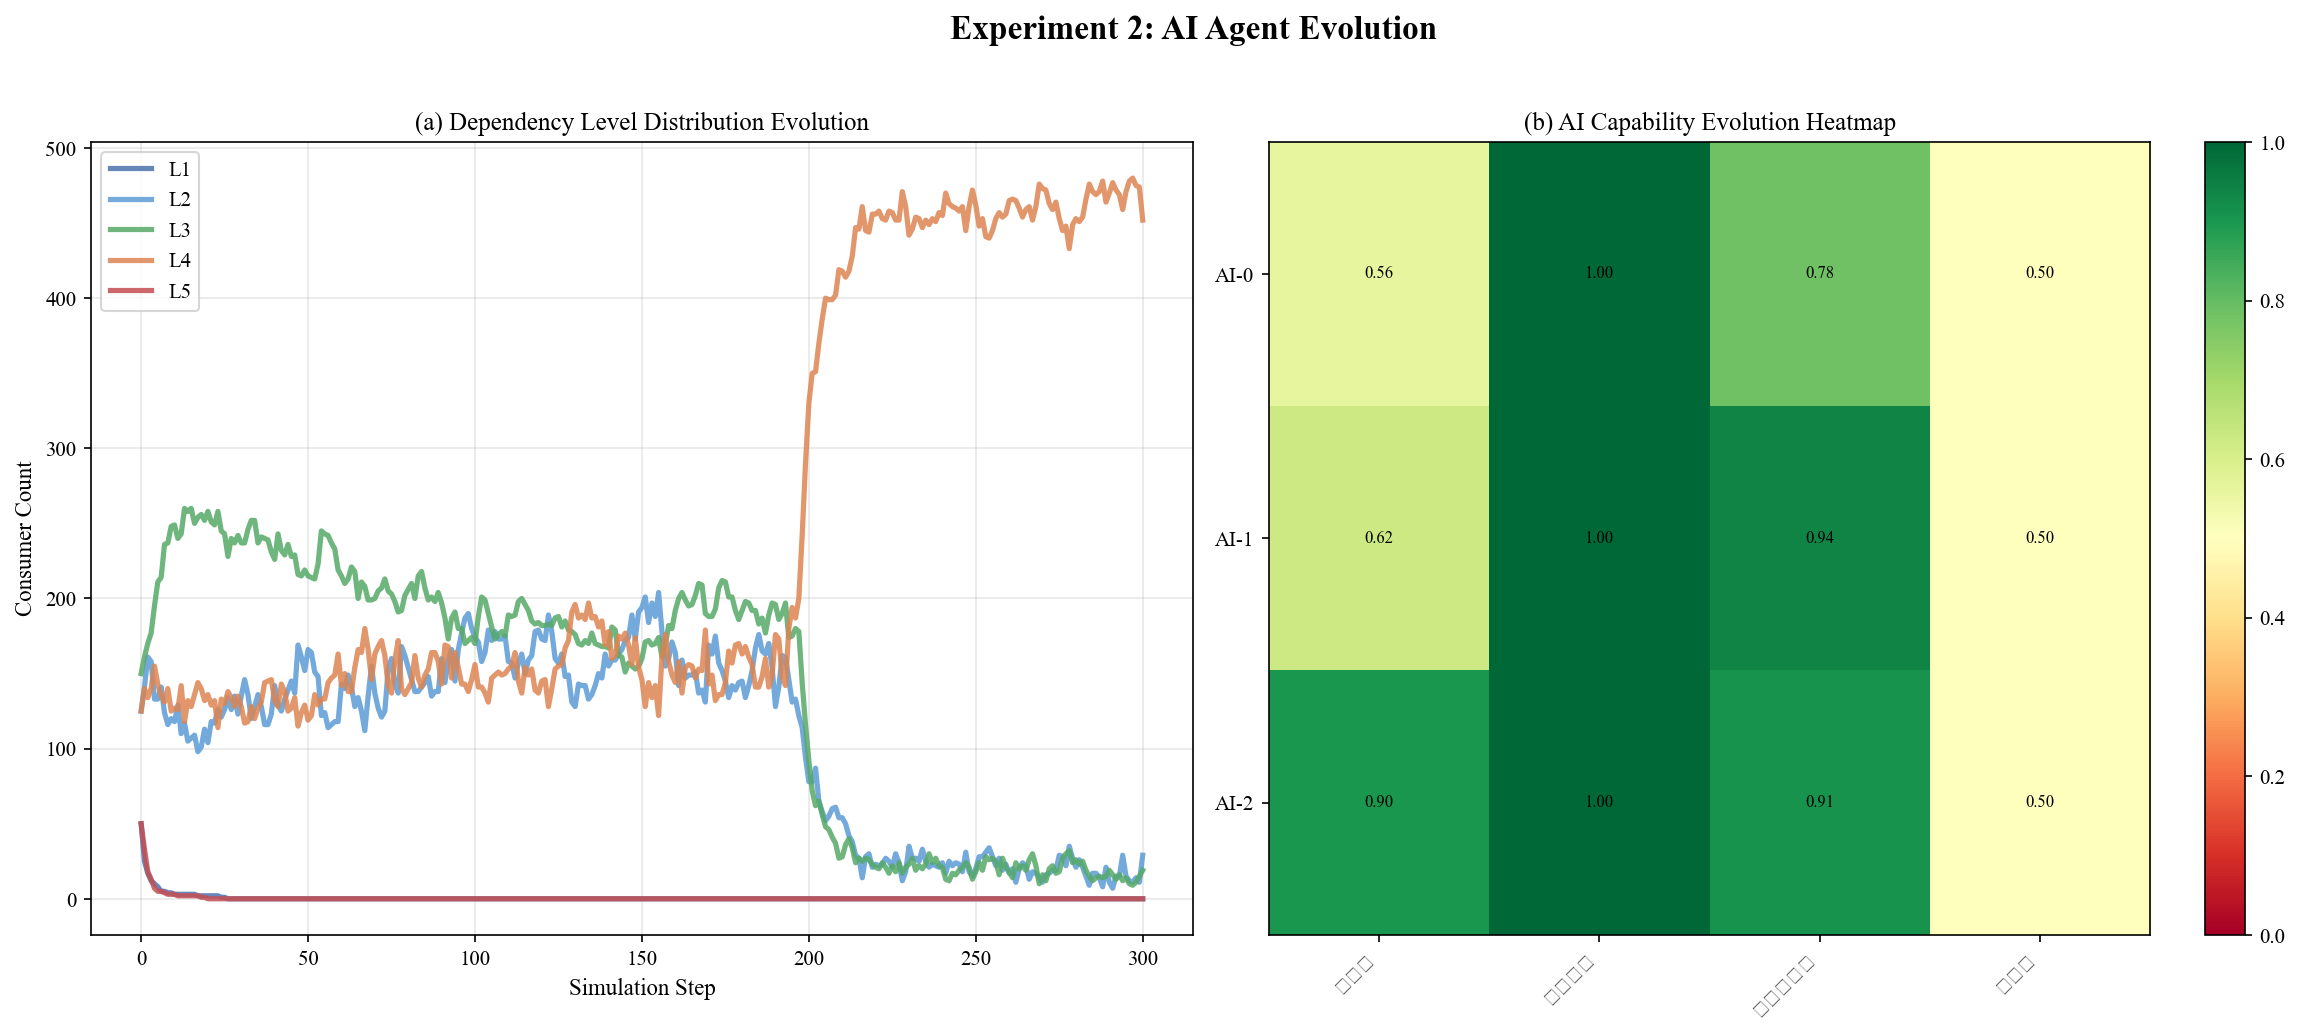
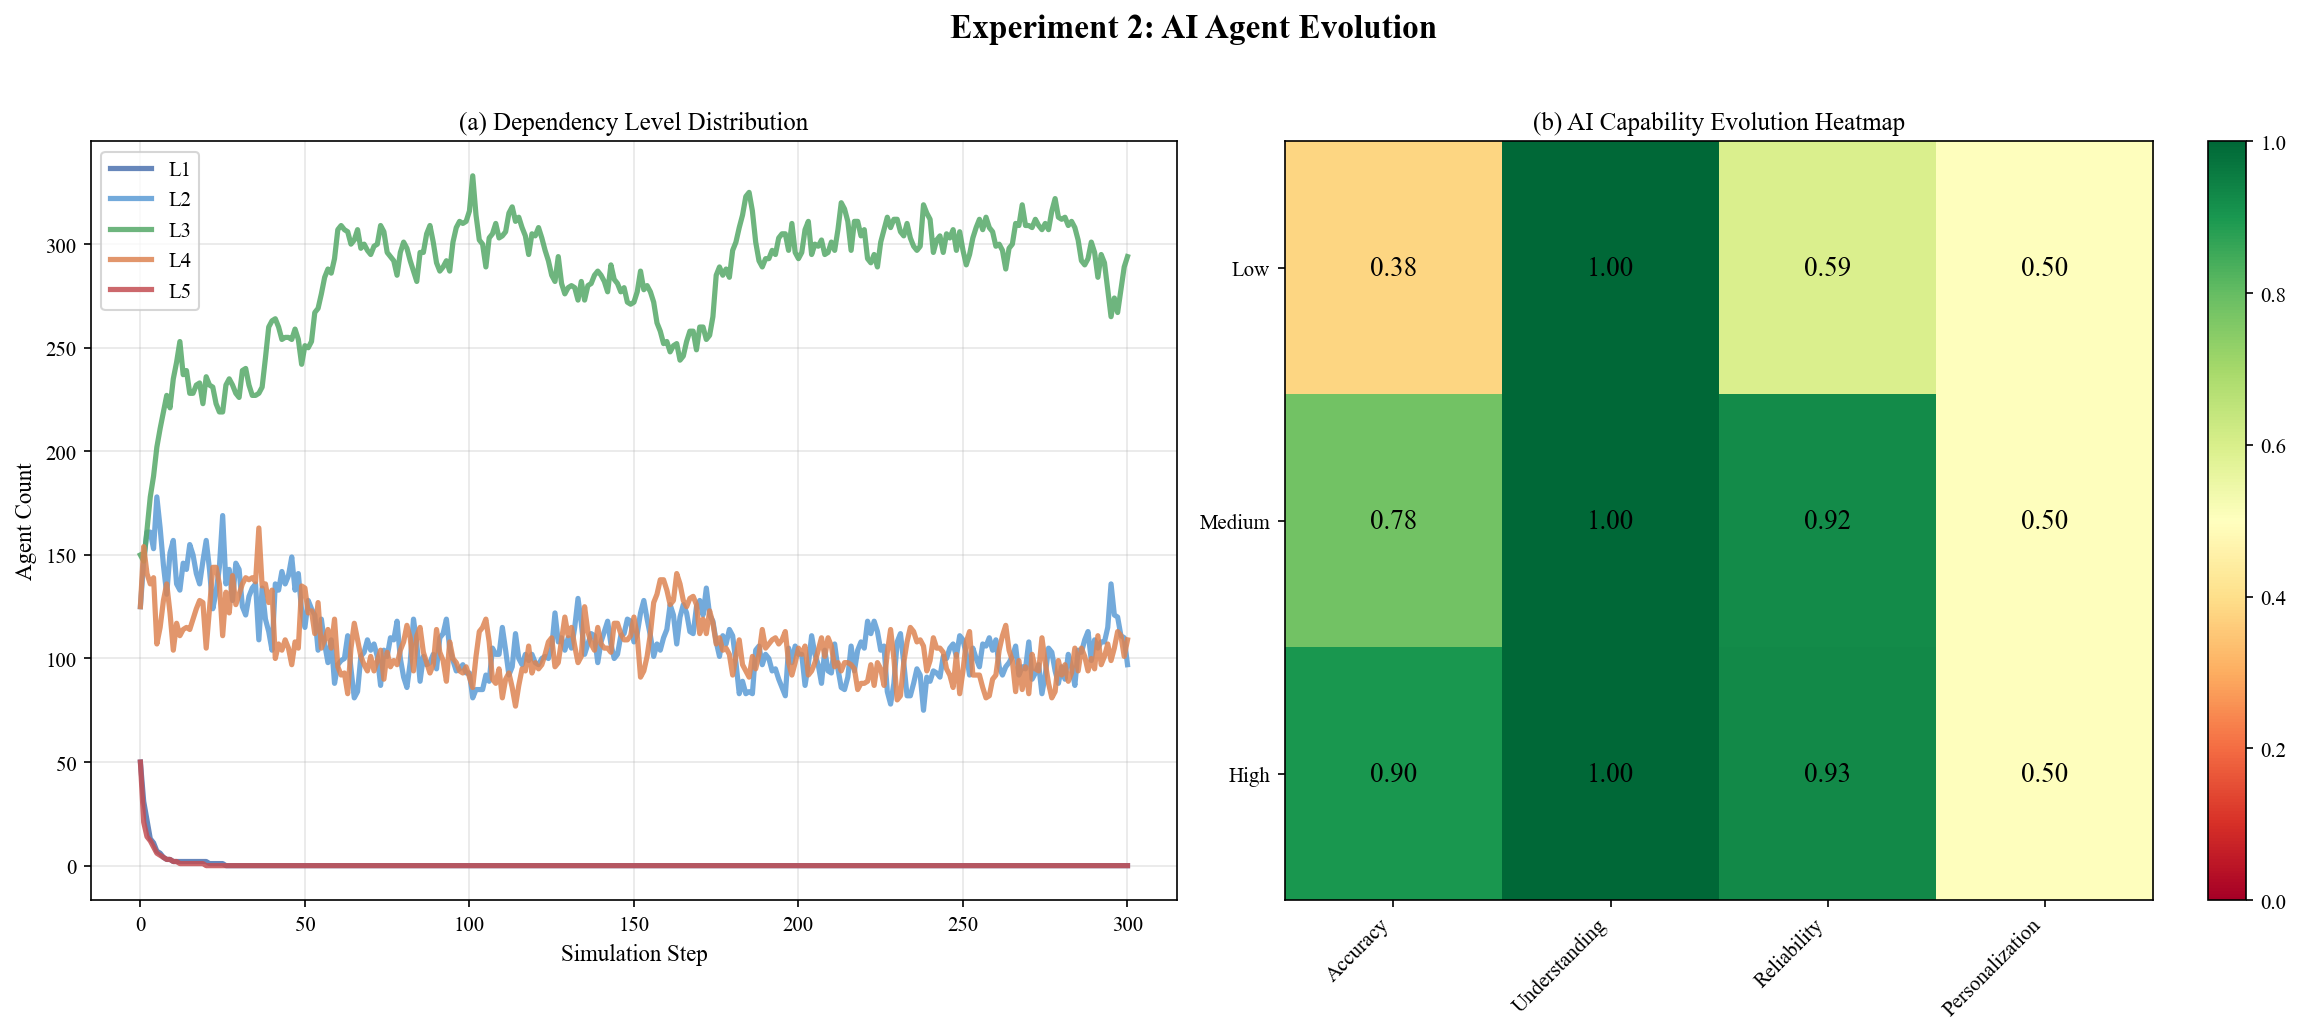
fix: 优化实验1/2可视化图表（y轴刻度分离、图例位置、热力图标签）

diff --git a/abm_simulation/experiments/exp1_baseline/create_baseline_summary.py b/abm_simulation/experiments/exp1_baseline/create_baseline_summary.py
@@ -4,6 +4,7 @@
 
 import numpy as np
 import matplotlib.pyplot as plt
+import matplotlib.patheffects as pe
 import sys
 import os
 
@@ -26,10 +27,10 @@ TEXT_CONFIG = {
         'level_evolution': '(c) 依赖等级演化',
         'magnetization': '(d) Ising 磁化强度',
         'coupling': '(e) 社会影响强度演化',
-        'phase_transition': 'Ising 相变分析',
-        'satisfaction': '(f) 平均满意度演化',
-        'ai_usage': 'AI 使用与错误率',
-        'network': '(g) 小世界网络特征',
+        'phase_transition': '(f) Ising 相变分析',
+        'satisfaction': '(g) 平均满意度演化',
+        'ai_usage': '(h) AI 使用与错误率',
+        'network': '(i) 小世界网络特征',
         'agent_count': '智能体数量',
         'step': '仿真步数',
         'coupling_strength': '耦合强度',
@@ -51,10 +52,10 @@ TEXT_CONFIG = {
         'level_evolution': '(c) Dependency Level Evolution',
         'magnetization': '(d) Ising Magnetization',
         'coupling': '(e) Social Influence Strength Evolution',
-        'phase_transition': 'Ising Phase Transition Analysis',
-        'satisfaction': '(f) Average Satisfaction Evolution',
-        'ai_usage': 'AI Usage & Error Rate',
-        'network': '(g) Small-World Network Features',
+        'phase_transition': '(f) Ising Phase Transition Analysis',
+        'satisfaction': '(g) Average Satisfaction Evolution',
+        'ai_usage': '(h) AI Usage & Error Rate',
+        'network': '(i) Small-World Network Features',
         'agent_count': 'Agent Count',
         'step': 'Simulation Step',
         'coupling_strength': 'Coupling Strength',
@@ -172,8 +173,9 @@ def _plot_initial_level_distribution(ax, sim, level_names, text):
         ax.grid(True, axis='y', alpha=0.3)
         
         for bar, count in zip(bars, counts):
-            ax.text(bar.get_x() + bar.get_width()/2., bar.get_height() + 5,
-                   f'{count}', ha='center', va='bottom', fontsize=10, fontweight='bold')
+            ax.text(bar.get_x() + bar.get_width()/2., bar.get_height() * 0.5,
+                   f'{count}', ha='center', va='center', fontsize=11, fontweight='bold',
+                   color='white')
 
 
 def _plot_final_level_distribution(ax, results, level_names, text):
@@ -189,8 +191,9 @@ def _plot_final_level_distribution(ax, results, level_names, text):
     ax.grid(True, axis='y', alpha=0.3)
     
     for bar, count in zip(bars, counts):
-        ax.text(bar.get_x() + bar.get_width()/2., bar.get_height() + 5,
-               f'{count}', ha='center', va='bottom', fontsize=10, fontweight='bold')
+        ax.text(bar.get_x() + bar.get_width()/2., bar.get_height() * 0.5,
+               f'{count}', ha='center', va='center', fontsize=11, fontweight='bold',
+               color='white')
 
 
 def _plot_level_evolution(ax, sim, level_names, text):
@@ -271,8 +274,8 @@ def _plot_phase_transition_analysis(ax, sim, text):
         line2 = ax2.plot(steps, magnetization, color='#4C72B0', label=text['magnetization_label'], linewidth=2, alpha=0.8, linestyle='--')
         
         ax1.set_xlabel(text['step'], fontsize=11)
-        ax1.set_ylabel(text['coupling_strength'], fontsize=11, color='green')
-        ax2.set_ylabel(text['magnetization_label'], fontsize=11, color='blue')
+        ax1.set_ylabel(text['coupling_strength'], fontsize=11, color='#55A868')
+        ax2.set_ylabel(text['magnetization_label'], fontsize=11, color='#4C72B0')
         ax1.set_title(text['phase_transition'], fontsize=12, fontweight='bold')
         
         # 合并图例
@@ -317,6 +320,9 @@ def _plot_ai_usage_and_errors(ax, sim, text):
         line1 = ax1.plot(steps, ai_usage, 'r-', label=text['ai_usage_rate'], linewidth=2, alpha=0.7)
         line2 = ax2.plot(steps, error_rate, 'purple', label=text['error_rate'], linewidth=2, alpha=0.7)
         
+        ax1.set_ylim(0, 1)
+        ax2.set_ylim(0, 1)
+        
         ax1.set_xlabel(text['step'], fontsize=11)
         ax1.set_ylabel(text['ai_usage_rate'], fontsize=11, color='red')
         ax2.set_ylabel(text['error_rate'], fontsize=11, color='purple')
@@ -325,7 +331,7 @@ def _plot_ai_usage_and_errors(ax, sim, text):
         # 合并图例
         lines = line1 + line2
         labels = [l.get_label() for l in lines]
-        ax1.legend(lines, labels, loc='upper right', fontsize=9)
+        ax1.legend(lines, labels, loc='center right', fontsize=9)
         
         ax1.grid(True, alpha=0.3)
 

diff --git a/abm_simulation/experiments/exp2_mechanism/visualization_evolution.py b/abm_simulation/experiments/exp2_mechanism/visualization_evolution.py
@@ -72,11 +72,11 @@ def visualize_evolution_results(sim, output_dir: str = None, en: bool = False):
     
     # 1. 依赖等级分布演化（左）- 有数据
     ax1 = plt.subplot(1, 2, 1)
-    _plot_level_distribution_evolution(ax1, sim)
+    _plot_level_distribution_evolution(ax1, sim, en=en)
     
     # 2. AI 能力进化热力图（右）- 有数据
     ax2 = plt.subplot(1, 2, 2)
-    _plot_capability_heatmap(ax2, sim)
+    _plot_capability_heatmap(ax2, sim, en=en)
     
     plt.suptitle(TEXT_CONFIG['en' if en else 'zh']['title'], fontsize=16, fontweight='bold', y=0.98)
     plt.tight_layout(rect=[0, 0, 1, 0.96])  # 为 suptitle 留出空间
@@ -132,7 +132,7 @@ def _plot_error_rate_evolution(ax, sim):
     ax.legend()
 
 
-def _plot_level_distribution_evolution(ax, sim):
+def _plot_level_distribution_evolution(ax, sim, en=False):
     """绘制依赖等级分布演化"""
     if not sim.metrics_history:
         ax.text(0.5, 0.5, 'No Data', ha='center', va='center')
@@ -146,9 +146,10 @@ def _plot_level_distribution_evolution(ax, sim):
         counts = [m.level_distribution.get(level, 0) for m in sim.metrics_history]
         ax.plot(steps, counts, color=color, linewidth=2.5, label=f'L{level}', alpha=0.85)
     
-    ax.set_xlabel('Simulation Step')
-    ax.set_ylabel('Consumer Count')
-    ax.set_title('(a) Dependency Level Distribution Evolution')
+    texts = TEXT_CONFIG['en' if en else 'zh']
+    ax.set_xlabel(texts['step_label'])
+    ax.set_ylabel(texts['consumer_count'])
+    ax.set_title(texts['level_dist_title'])
     ax.legend()
     ax.grid(True, alpha=0.3)
 
@@ -177,18 +178,22 @@ def _plot_learning_events(ax, sim):
     ax_twin.legend(loc='upper right')
 
 
-def _plot_capability_heatmap(ax, sim):
+def _plot_capability_heatmap(ax, sim, en=False):
     """绘制AI能力进化热力图"""
+    texts = TEXT_CONFIG['en' if en else 'zh']
     # 获取AI群体指标
     if not hasattr(sim.ai_population, 'agents'):
-        ax.text(0.5, 0.5, '无AI数据', ha='center', va='center')
+        ax.text(0.5, 0.5, texts['no_data'], ha='center', va='center')
         return
     
     agents = sim.ai_population.agents
     n_agents = len(agents)
     
     # 构建能力矩阵
-    capabilities = ['准确度', '理解深度', '执行可靠性', '个性化']
+    if en:
+        capabilities = ['Accuracy', 'Understanding', 'Reliability', 'Personalization']
+    else:
+        capabilities = ['准确度', '理解深度', '执行可靠性', '个性化']
     capability_matrix = np.zeros((n_agents, len(capabilities)))
     
     for i, agent in enumerate(agents):
@@ -202,14 +207,18 @@ def _plot_capability_heatmap(ax, sim):
     ax.set_xticks(range(len(capabilities)))
     ax.set_xticklabels(capabilities, rotation=45, ha='right')
     ax.set_yticks(range(n_agents))
-    ax.set_yticklabels([f'AI-{i}' for i in range(n_agents)])
-    ax.set_title('(b) AI Capability Evolution Heatmap')
+    if en:
+        ai_labels = ['Low', 'Medium', 'High'][:n_agents]
+    else:
+        ai_labels = ['低', '中', '高'][:n_agents]
+    ax.set_yticklabels(ai_labels)
+    ax.set_title(texts['capability_title'])
     
     # 添加数值标注
     for i in range(n_agents):
         for j in range(len(capabilities)):
             text = ax.text(j, i, f'{capability_matrix[i, j]:.2f}',
-                          ha="center", va="center", color="black", fontsize=8)
+                          ha="center", va="center", color="black", fontsize=13)
     
     plt.colorbar(im, ax=ax)
 
